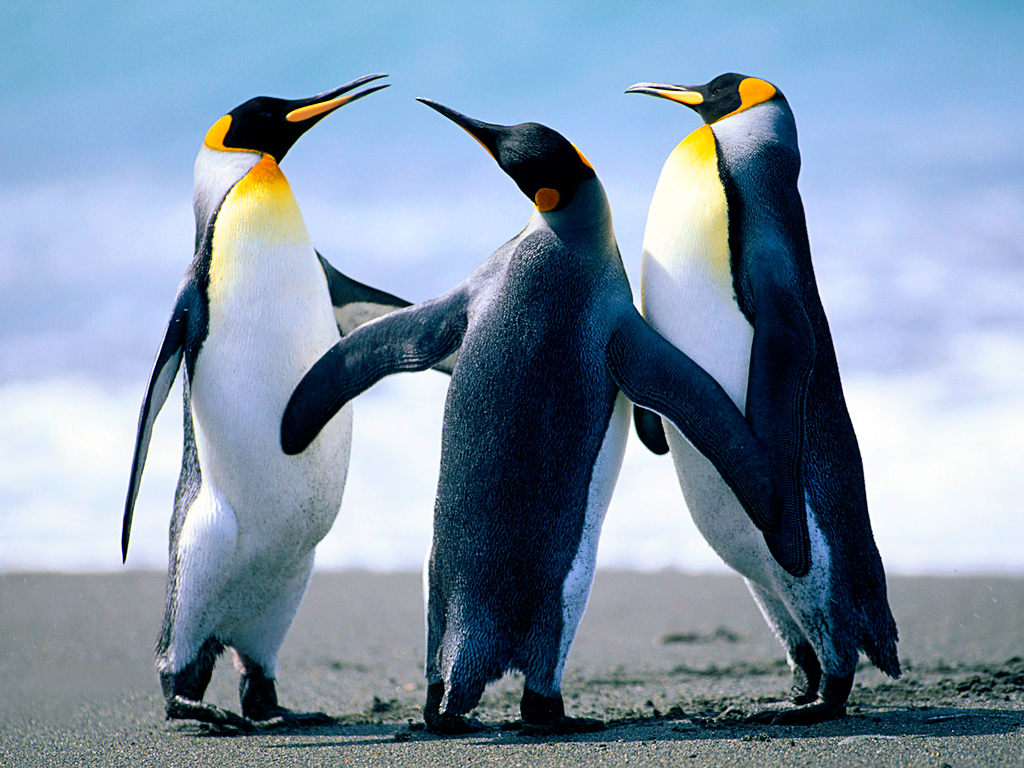
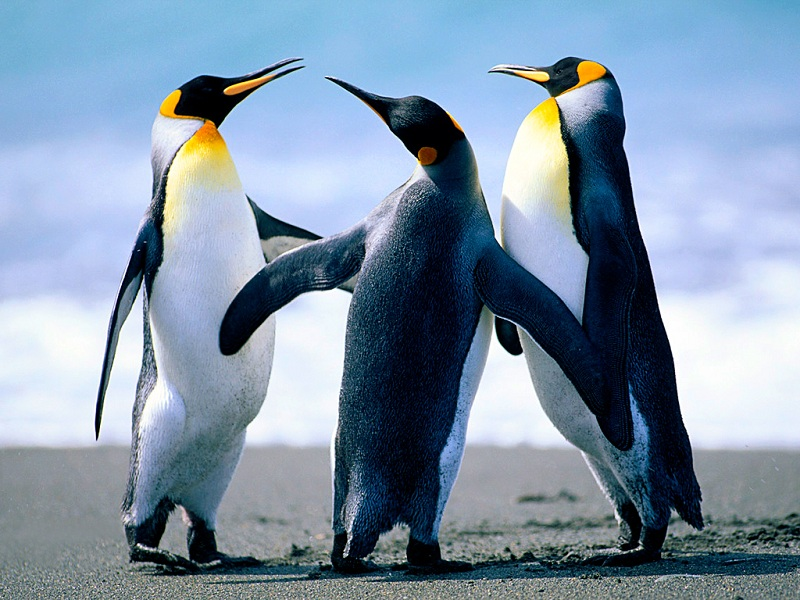
Beautify code a little, lower image res

diff --git a/src/Image.kt b/src/Image.kt
@@ -3,37 +3,41 @@ package example
 import java.util.ArrayList
 import js.dom.html.*
 
-fun getImage(path: String): HTMLImageElement {
+fun loadImageFromResource(path: String): HTMLImageElement {
     val image = window.document.createElement("img") as HTMLImageElement
     image.src = path
     return image
 }
 
-object Image {
+object PuzzleImage {
     val data: HTMLImageElement
-        get() = getImage("Penguins.jpg")
-    val width = 1024
-    val height = 768
+        get() = loadImageFromResource("Penguins.jpg")
+    val width = 800
+    val height = 600
     val piecesX = 4
     val piecesY = 3
     val piecesList = ArrayList<Piece>()
     val pieceSize = width / piecesX
-    val pieces: Array<Array<Piece>> = splitInPieces()
-    val piecesCount: Int
-        get() = piecesX * piecesY
+    val pieceCount = piecesX * piecesY
+    val pieces = splitInPieces()
 
 
     fun splitInPieces(): Array<Array<Piece>> {
         val shuffler = Shuffler(piecesX, piecesY)
-        return  Array(piecesX) {
+        return Array(piecesX) {
         x ->
             Array(piecesY) {
             y ->
                 val xy = shuffler.getNextPair()
-                val imagePiece = Piece(i = x, j = y,
-                        imageX = x * pieceSize, imageY = y * pieceSize,
-                        width = pieceSize, height = pieceSize,
-                        startingPos = v(xy._1 * pieceSize, xy._2 * pieceSize))
+                val imagePiece = Piece(
+                        i = x,
+                        j = y,
+                        imageX = x * pieceSize,
+                        imageY = y * pieceSize,
+                        width = pieceSize,
+                        height = pieceSize,
+                        startingPos = v(xy._1 * pieceSize, xy._2 * pieceSize)
+                )
                 piecesList.add(imagePiece)
                 imagePiece
             }
@@ -62,7 +66,7 @@ class Shuffler(val x: Int, val y: Int) {
 
 var haveWon = false
     set(won) {
-        if (won and !$haveWon) {
+        if (won && !$haveWon) {
             val canvasDiv = window.document.getElementById("logo")!! as HTMLDivElement
             canvasDiv.innerHTML = "<p>Congratulations!<br/>Click on the logo!<br/>" + canvasDiv.innerHTML
         }

diff --git a/src/Piece.kt b/src/Piece.kt
@@ -17,13 +17,13 @@ class Piece(val i: Int, val j: Int,
     var bundle: Bundle = Bundle(this)
 
     val leftNeighbour: Piece?
-        get() = if (i > 0) Image.pieces[i - 1][j] else null
+        get() = if (i > 0) PuzzleImage.pieces[i - 1][j] else null
     val rightNeighbour: Piece?
-        get() = if (i < Image.piecesX - 1) Image.pieces[i + 1][j] else null
+        get() = if (i < PuzzleImage.piecesX - 1) PuzzleImage.pieces[i + 1][j] else null
     val topNeighbour: Piece?
-        get() = if (j > 0) Image.pieces[i][j - 1] else null
+        get() = if (j > 0) PuzzleImage.pieces[i][j - 1] else null
     val bottomNeighbour: Piece?
-        get() = if (j < Image.piecesY - 1) Image.pieces[i][j + 1] else null
+        get() = if (j < PuzzleImage.piecesY - 1) PuzzleImage.pieces[i][j + 1] else null
 
     fun contains(mousePos: Vector): Boolean = mousePos.isInRect(pos, v(width.toDouble(), height.toDouble()))
 
@@ -71,7 +71,7 @@ class Piece(val i: Int, val j: Int,
 
 
     fun drawImagePart(state: CanvasState) {
-        state.context.drawImage(Image.data, imageX, imageY, width, height, pos.x.toInt(), pos.y.toInt(), width, height)
+        state.context.drawImage(PuzzleImage.data, imageX, imageY, width, height, pos.x.toInt(), pos.y.toInt(), width, height)
     }
 
     val indexVector: Vector
@@ -87,7 +87,7 @@ class Piece(val i: Int, val j: Int,
     }
 
     fun alignDelta(otherPiece: Piece): Vector {
-        val imageDistance = (otherPiece.indexVector - this.indexVector) * Image.pieceSize.toDouble()
+        val imageDistance = (otherPiece.indexVector - this.indexVector) * PuzzleImage.pieceSize.toDouble()
         val realDistance = otherPiece.pos - this.$pos
         return realDistance - imageDistance
     }

diff --git a/src/CanvasState.kt b/src/CanvasState.kt
@@ -110,6 +110,7 @@ class CanvasState(val canvas: HTMLCanvasElement) {
 
 
 //This ugly code won't be needed when we have lazy annotation
+private var _canvasState: CanvasState? = null
 val canvasState: CanvasState
     get() {
         if (_canvasState == null) {
@@ -118,5 +119,3 @@ val canvasState: CanvasState
         return _canvasState!!
     }
 
-
-var _canvasState: CanvasState? = null

diff --git a/src/Shape.kt b/src/Shape.kt
@@ -1,10 +1,8 @@
 package example
 
 abstract class Shape() {
-
     abstract fun draw(state: CanvasState)
-    // these two abstract methods defines that our shapes can be dragged
     abstract fun contains(mousePos: Vector): Boolean
     abstract var pos: Vector
-    open var selected: Boolean = false
+    abstract var selected: Boolean
 }

diff --git a/src/Bundle.kt b/src/Bundle.kt
@@ -43,7 +43,7 @@ class Bundle(val mainPiece: Piece): Shape() {
                 }
             }
         }
-        haveWon = pieces.size() == Image.piecesCount
+        haveWon = pieces.size() == PuzzleImage.pieceCount
     }
 
     override fun draw(state: CanvasState) {

diff --git a/src/main.kt b/src/main.kt
@@ -5,7 +5,7 @@ import js.jquery.jq
 
 fun main(args: Array<String>) {
     jq {
-        val pieces = Image.piecesList
+        val pieces = PuzzleImage.piecesList
         for (piece in pieces) {
             canvasState.addShape(piece.bundle)
         }

diff --git a/production/index.html b/production/index.html
@@ -24,7 +24,7 @@
 </head>
 <body onload="Kotlin.defs.example.main()">
 <div>
-    <canvas width="1200" height="1000"></canvas>
+    <canvas width="900" height="700"></canvas>
 </div>
 
 <div id="logo">
